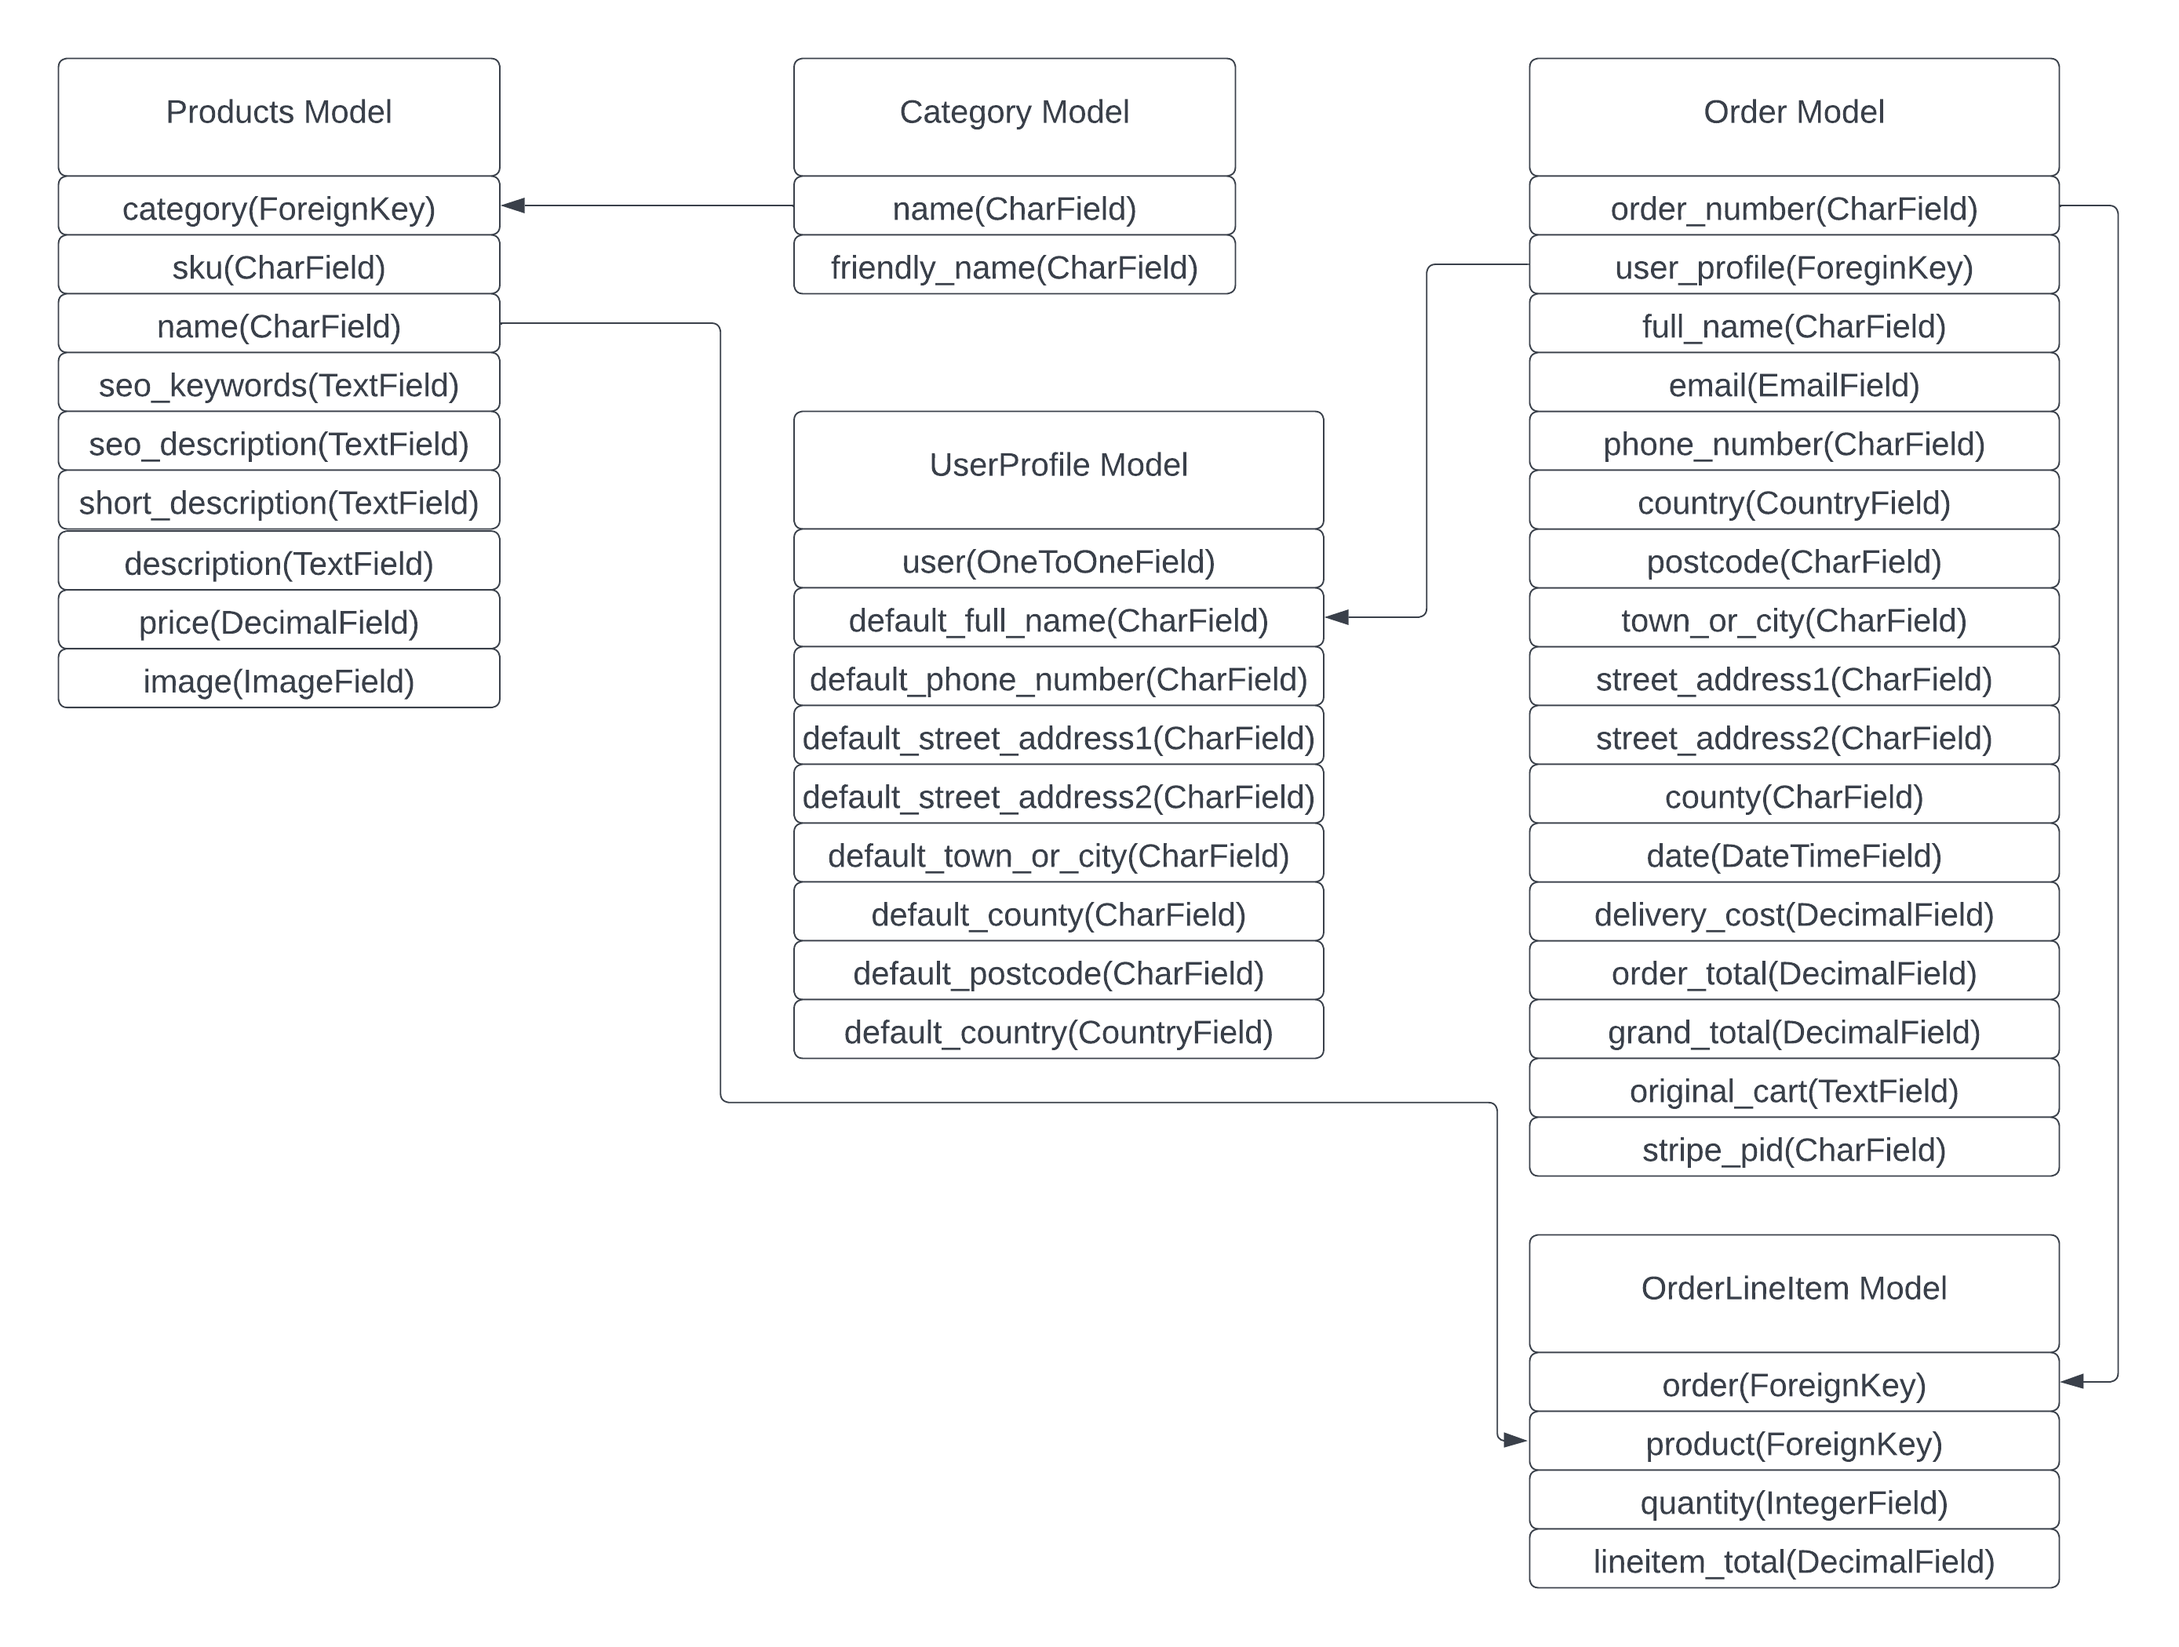
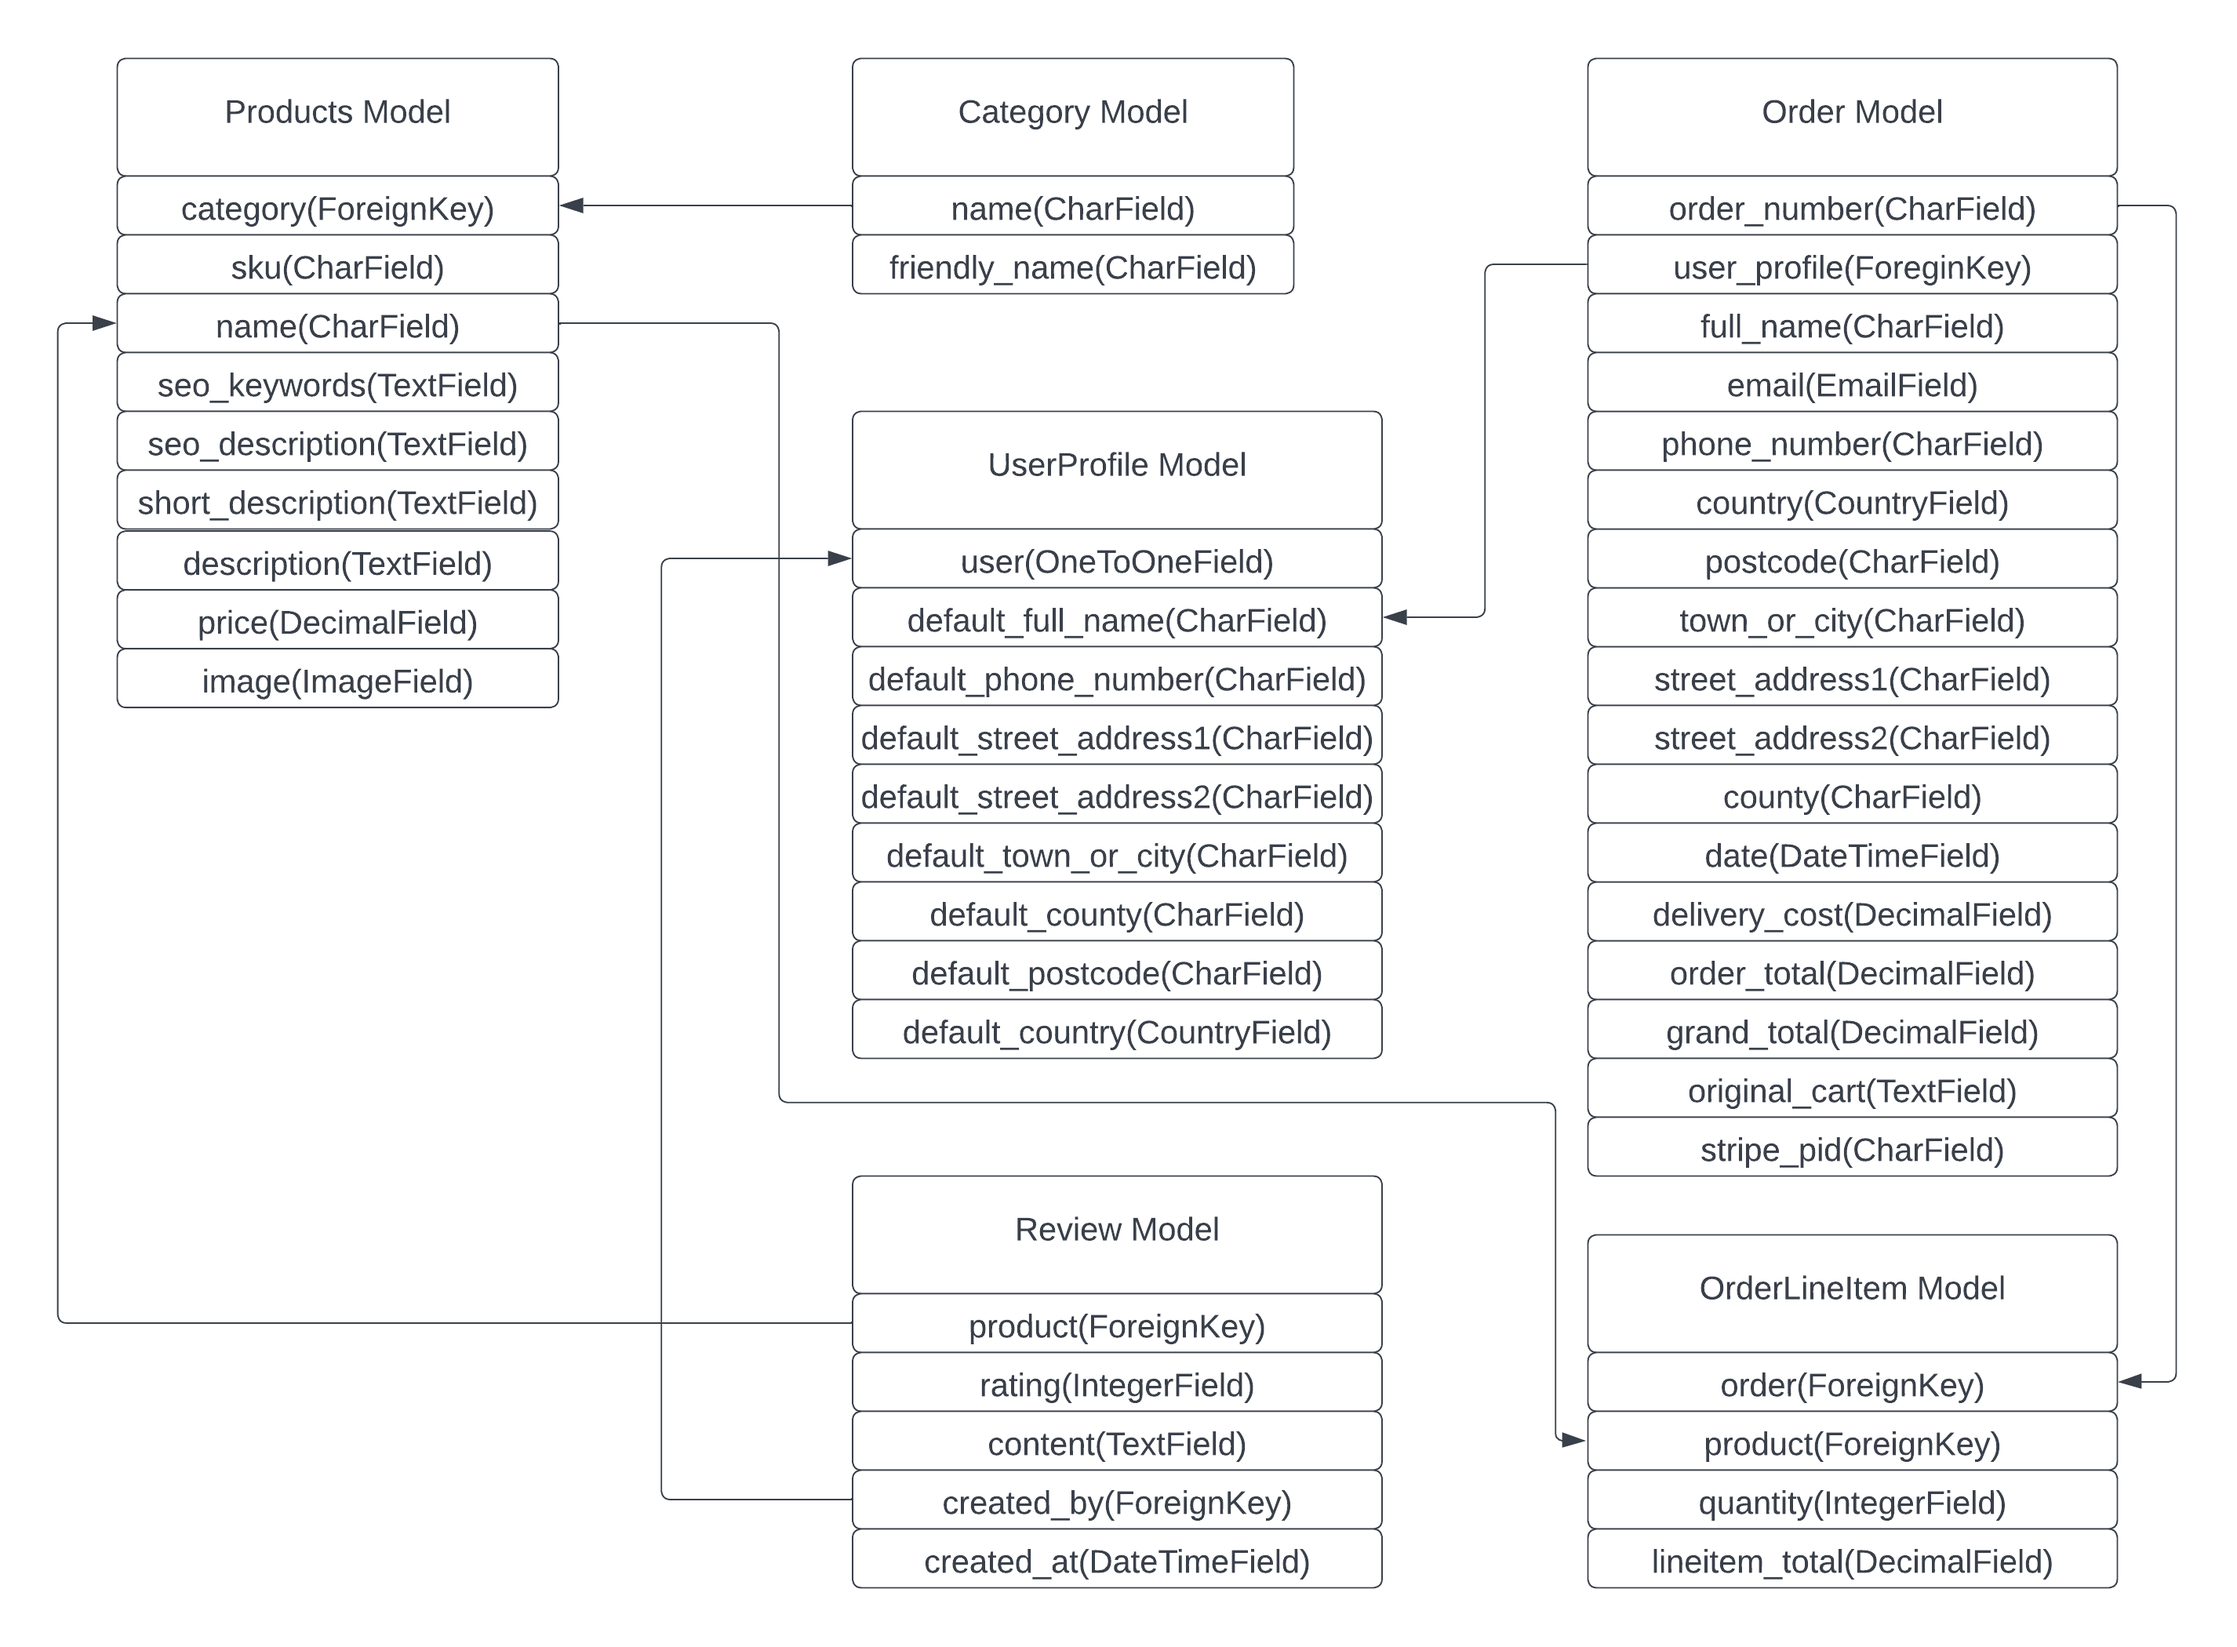
Added reviews to features in readme and reuploaded database and flowchart.

diff --git a/products/views.py b/products/views.py
@@ -71,7 +71,8 @@ def product_detail(request, product_id):
         content = request.POST.get('content')
 
         if content:
-            reviews = Review.objects.filter(created_by=request.user, product=product)
+            reviews = Review.objects.filter(created_by=request.user,
+                                            product=product)
 
             if reviews.count() > 0:
                 review = reviews.first()

diff --git a/README.md b/README.md
@@ -275,6 +275,13 @@ GitHub Issues were used to list user stoires. manage and plan the implementation
 
 ![Success Message](docs/features/success-message.png)
 
+**Product Reviews**
+
+- Users can leave the reviews on each product with ratings from 1-6 and the comments.
+- If the user resubmits their review, it will overwrite their existing one.
+
+![Product Reviews](docs/features/product-reviews.png)
+
 **Deleting Products**
 
 - If user is an admin, on each product there will be two additional link buttons for editing and deleting products.
